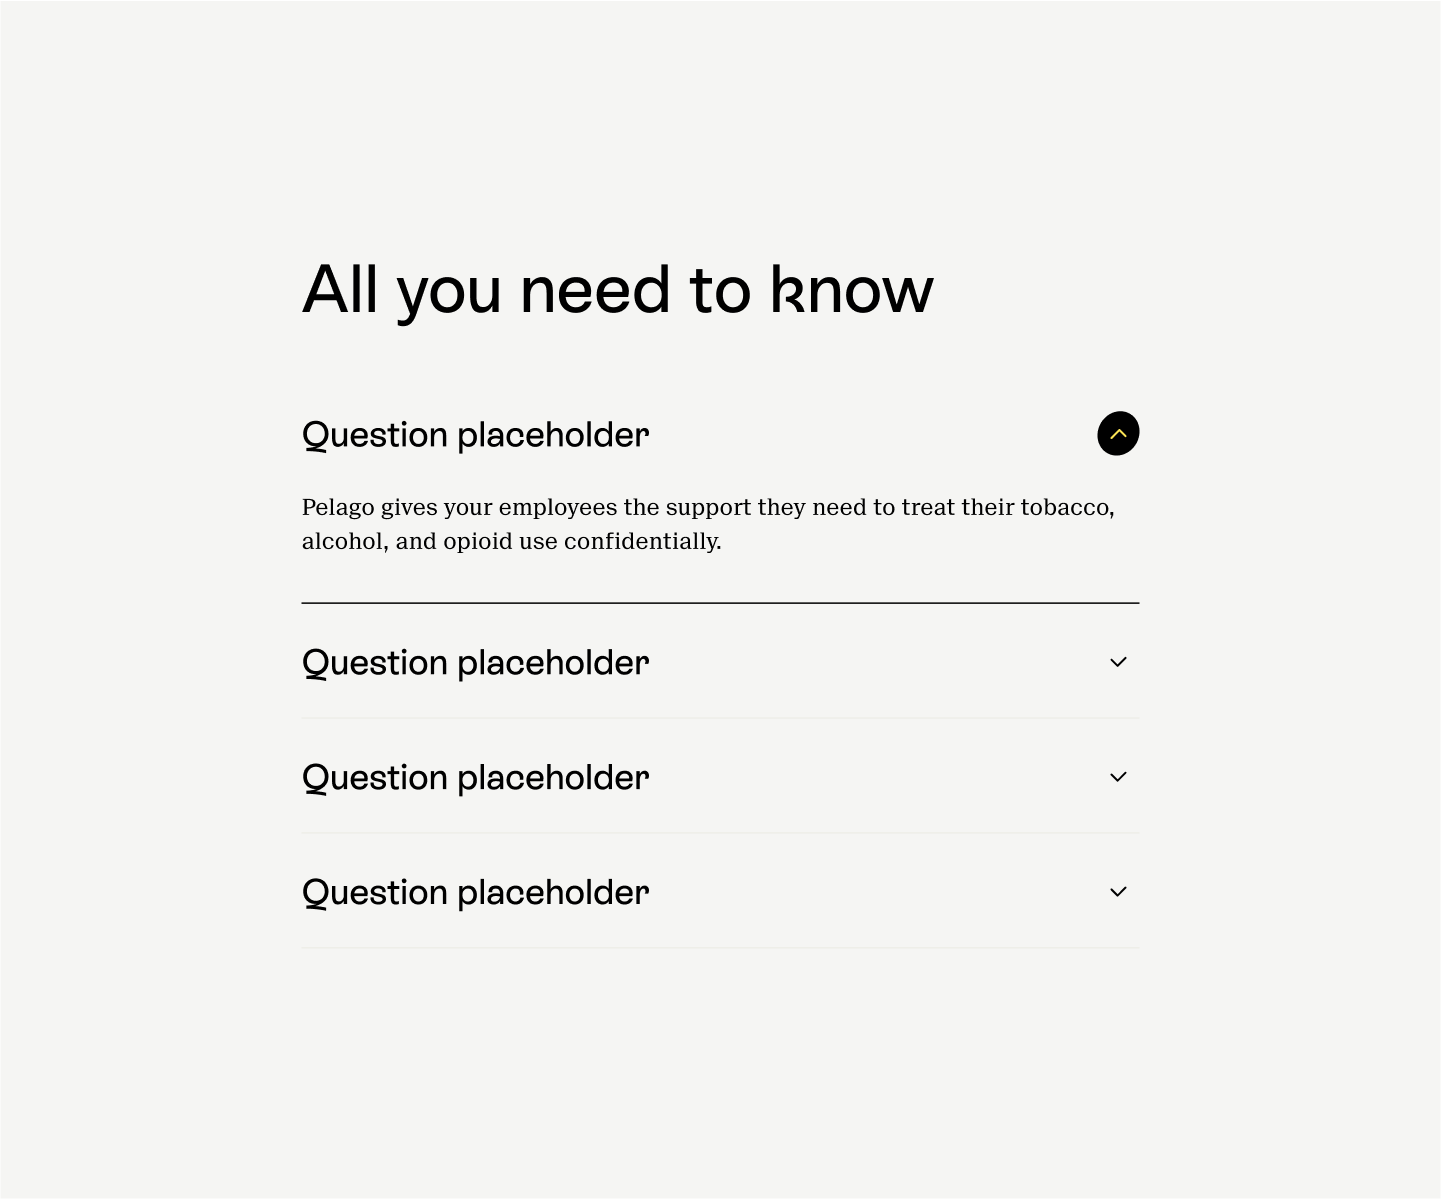
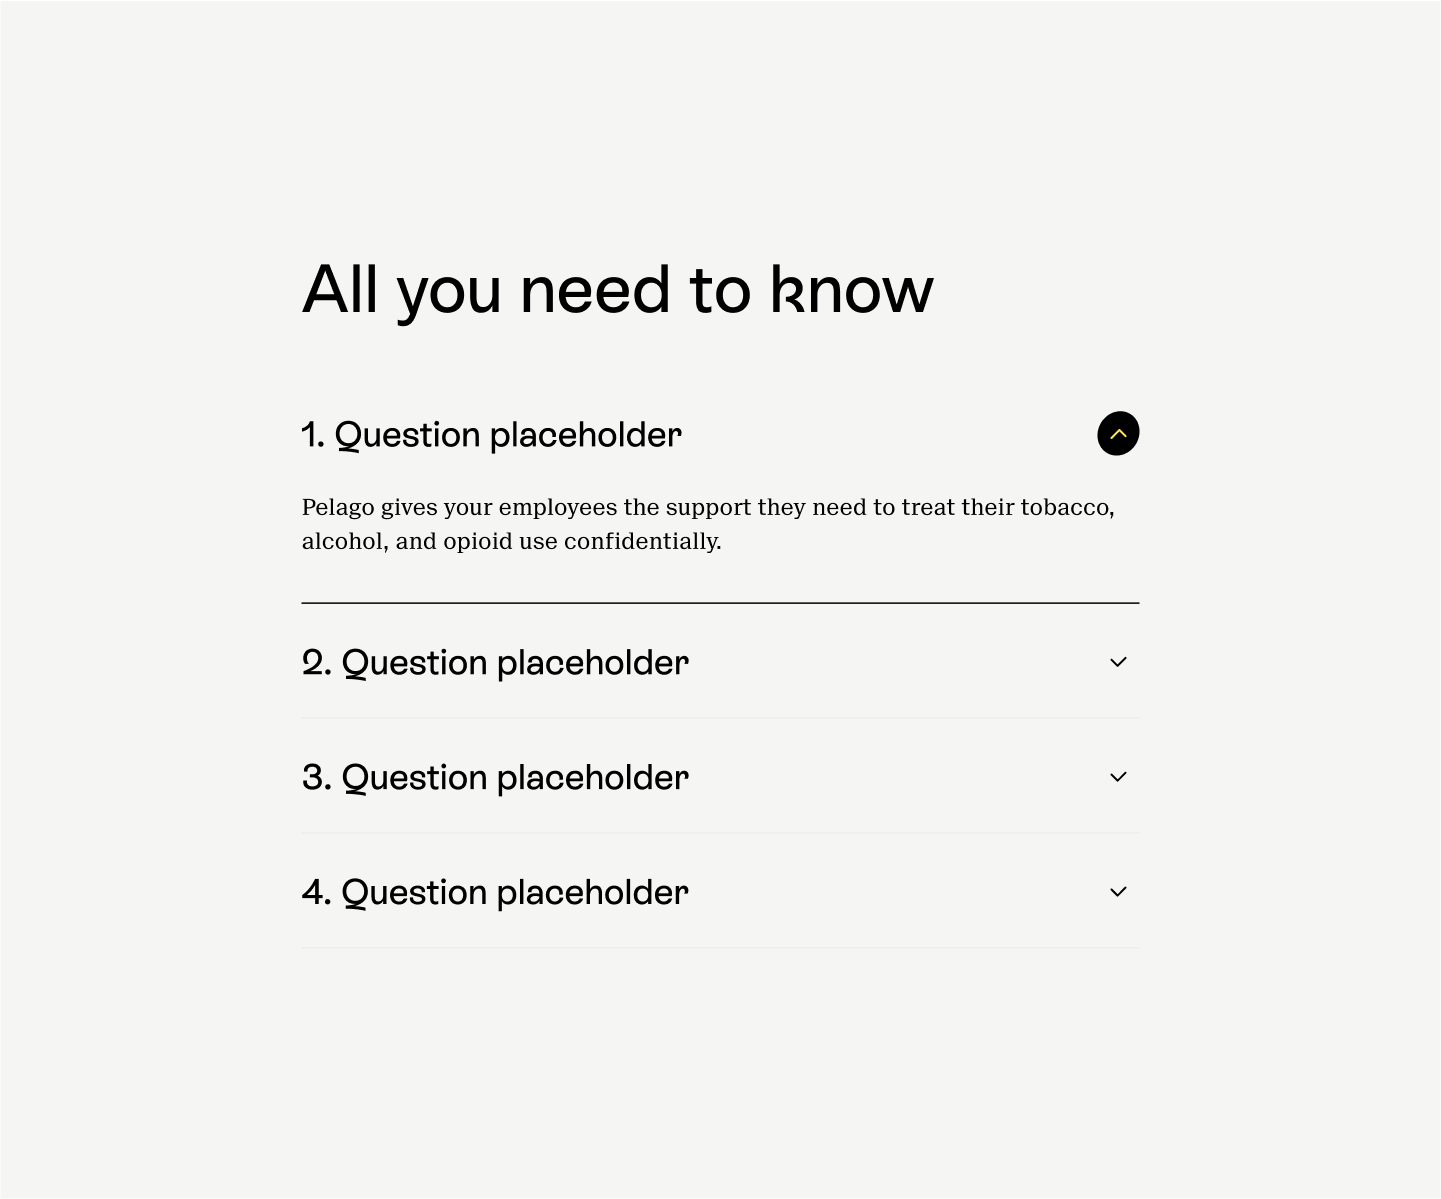
Updated readme

diff --git a/README.md b/README.md
@@ -22,7 +22,7 @@ Your goal is to build a website component in Next.js using a combination of Java
 
 1. Build a component consistent with the design (see screenshot and design below)
 2. Retrieve the questions and answers from the `db.json` file located in the `_data` folder using the provided `json-server` package and `FetchData` component.
-3. Add an `id` to each question and answer set found in the json file and use the index to sort the questions in chronological order
+3. Add an `id` to each question / answer set and use the `id` to sort the questions in chronological order for display on the page
 4. Your code should be able to handle additional FAQs added in teh future
 5. The answers should be hidden by default and revealed when the user clicks the question
 6. Show off your CSS skills and include some animations if possible
